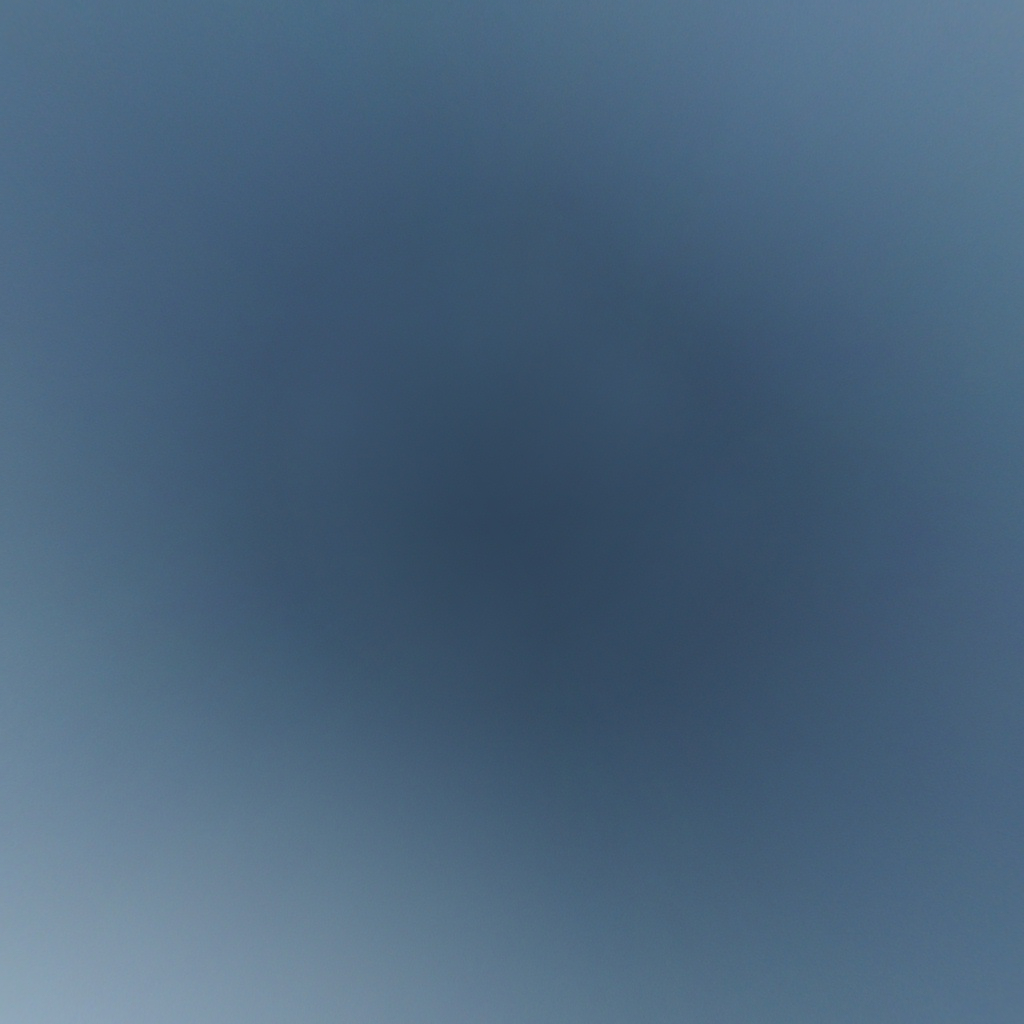
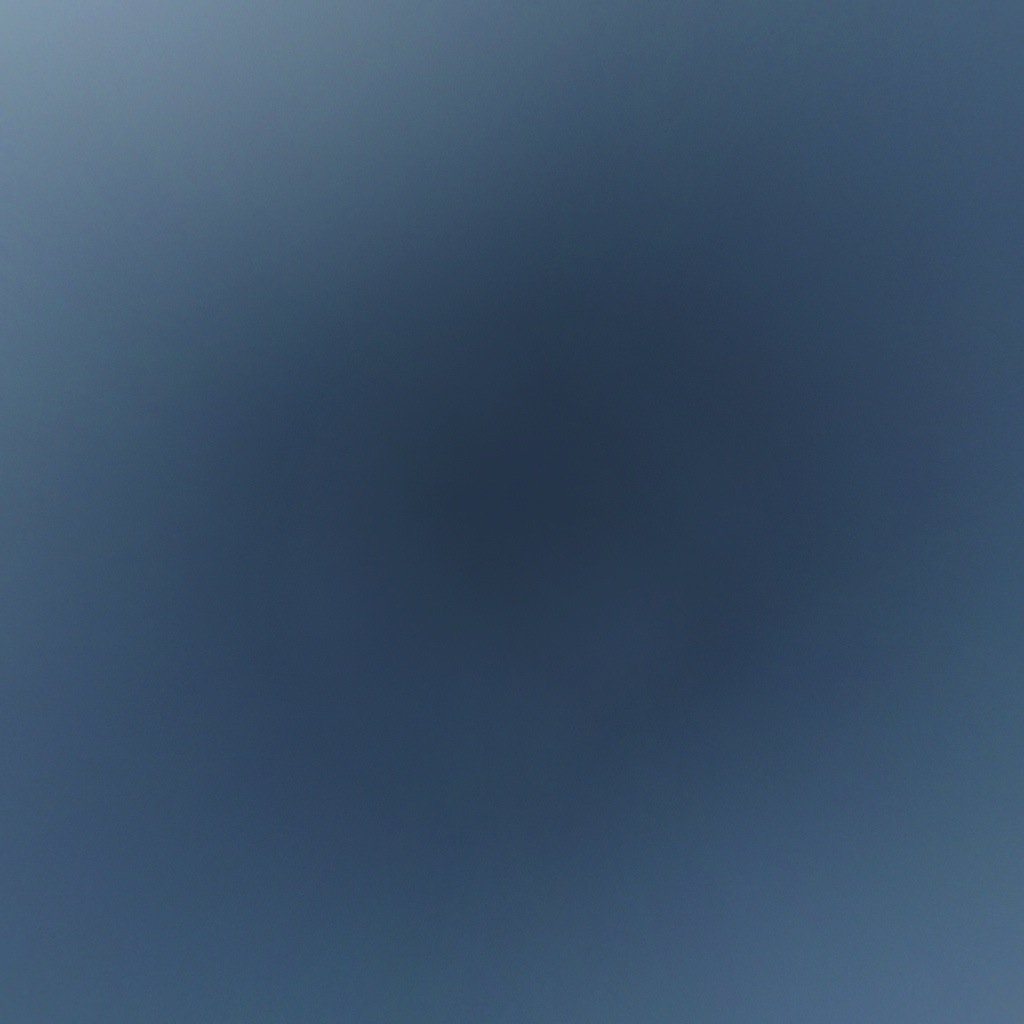
got env map working

diff --git a/public/js/world.js b/public/js/world.js
@@ -1,5 +1,5 @@
 var World = function() {
-  var camera, cubeCamera, scene, renderer, controls;
+  var camera, cubeCamera, cubeMap, scene, renderer, controls;
   var fov = 70,
     isUserInteracting = false,
     onMouseDownMouseX = 0,
@@ -26,9 +26,33 @@ var World = function() {
 
     scene = new THREE.Scene();
 
-    var mesh = new THREE.Mesh(new THREE.SphereGeometry(500, 60, 40), new THREE.MeshBasicMaterial({
-      map: texture
-    }));
+    //SKY BOX
+
+    var urls = [
+        'images/sky1.jpg',
+        'images/sky2.jpg',
+        'images/sky4.jpg',
+        'images/sky3.jpg',
+        'images/sky5.jpg',
+        'images/sky6.jpg'
+    ];
+
+    cubemap = THREE.ImageUtils.
+    loadTextureCube(urls);
+
+
+
+    var envMaterial = new THREE
+      .MeshLambertMaterial({
+      color: 0xffffff,
+      envMap: cubemap
+    });
+
+    // var mesh = new THREE.Mesh(new THREE.SphereGeometry(500, 60, 40), new THREE.MeshBasicMaterial({
+    //   map: texture
+    // }));
+
+    var mesh = new THREE.Mesh(new THREE.SphereGeometry(500, 60, 40), envMaterial);
     mesh.scale.x = -1;
     scene.add(mesh);
 
